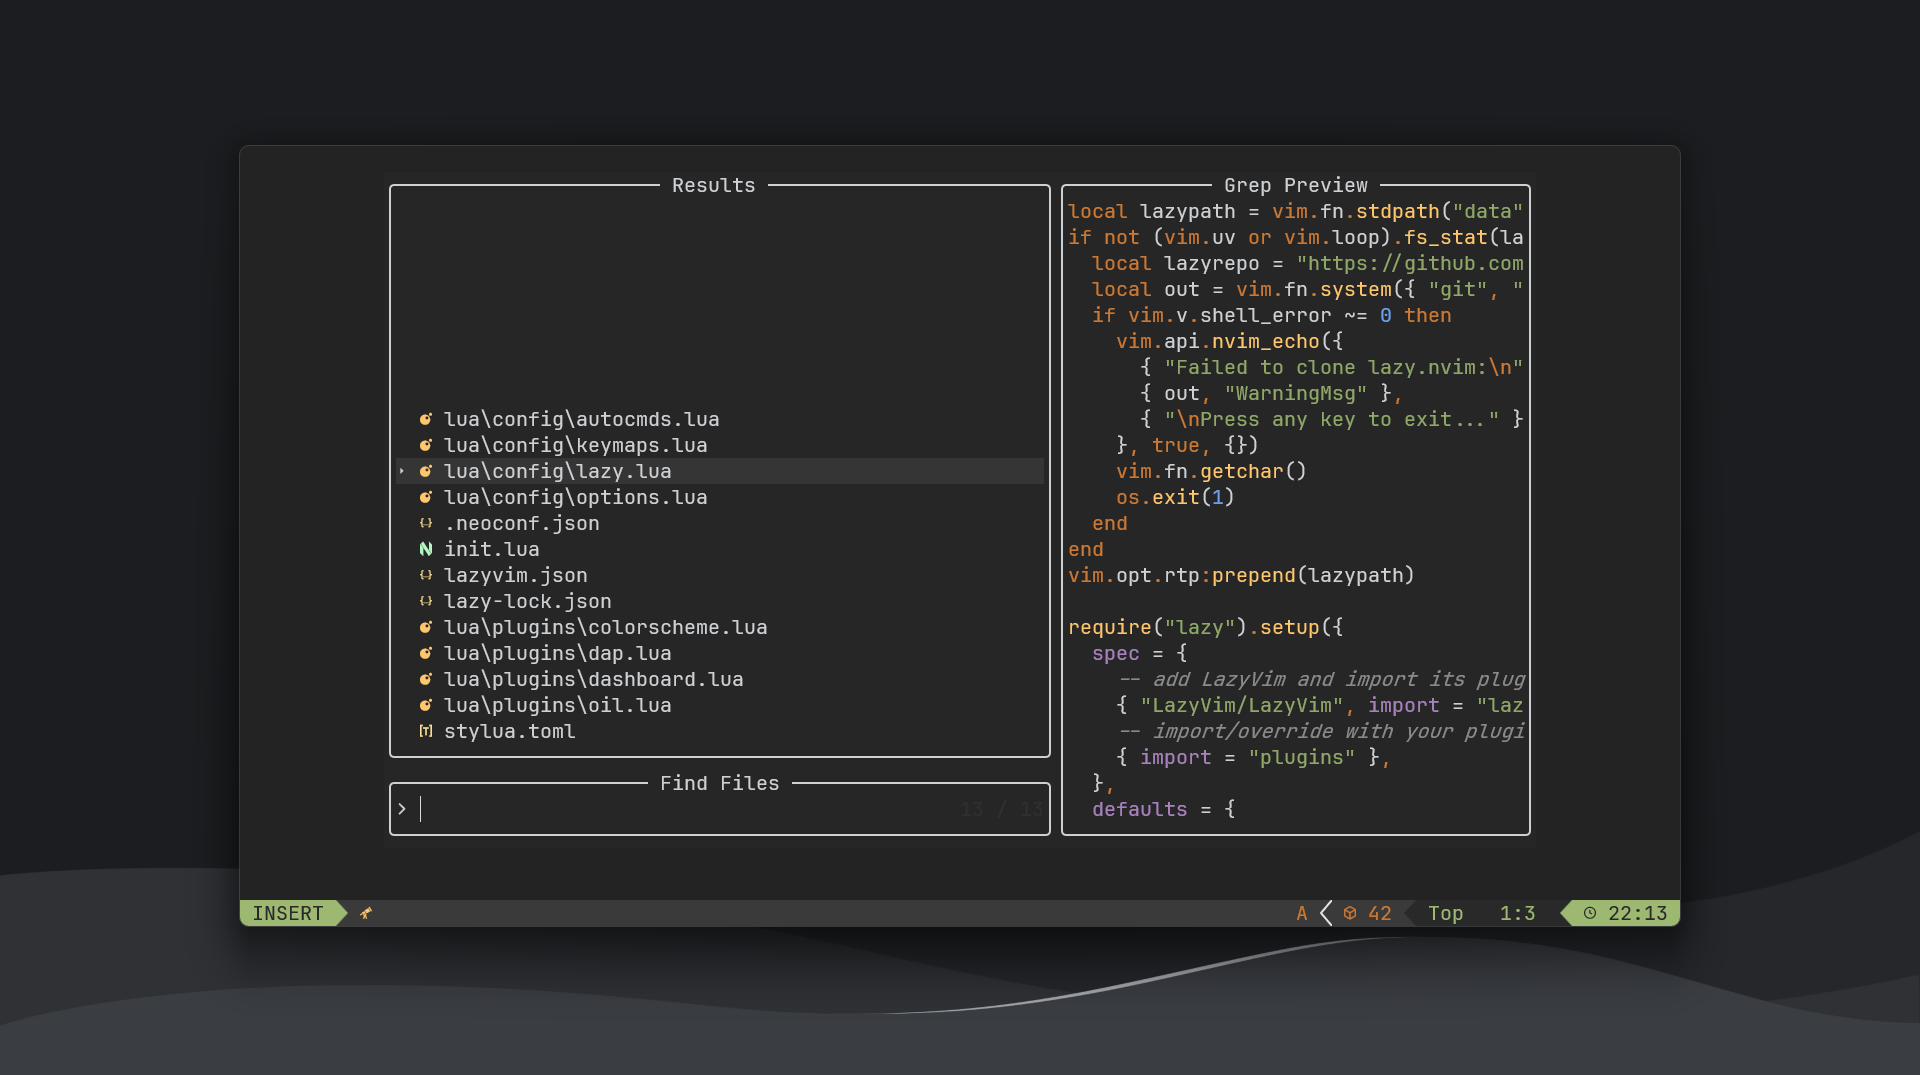
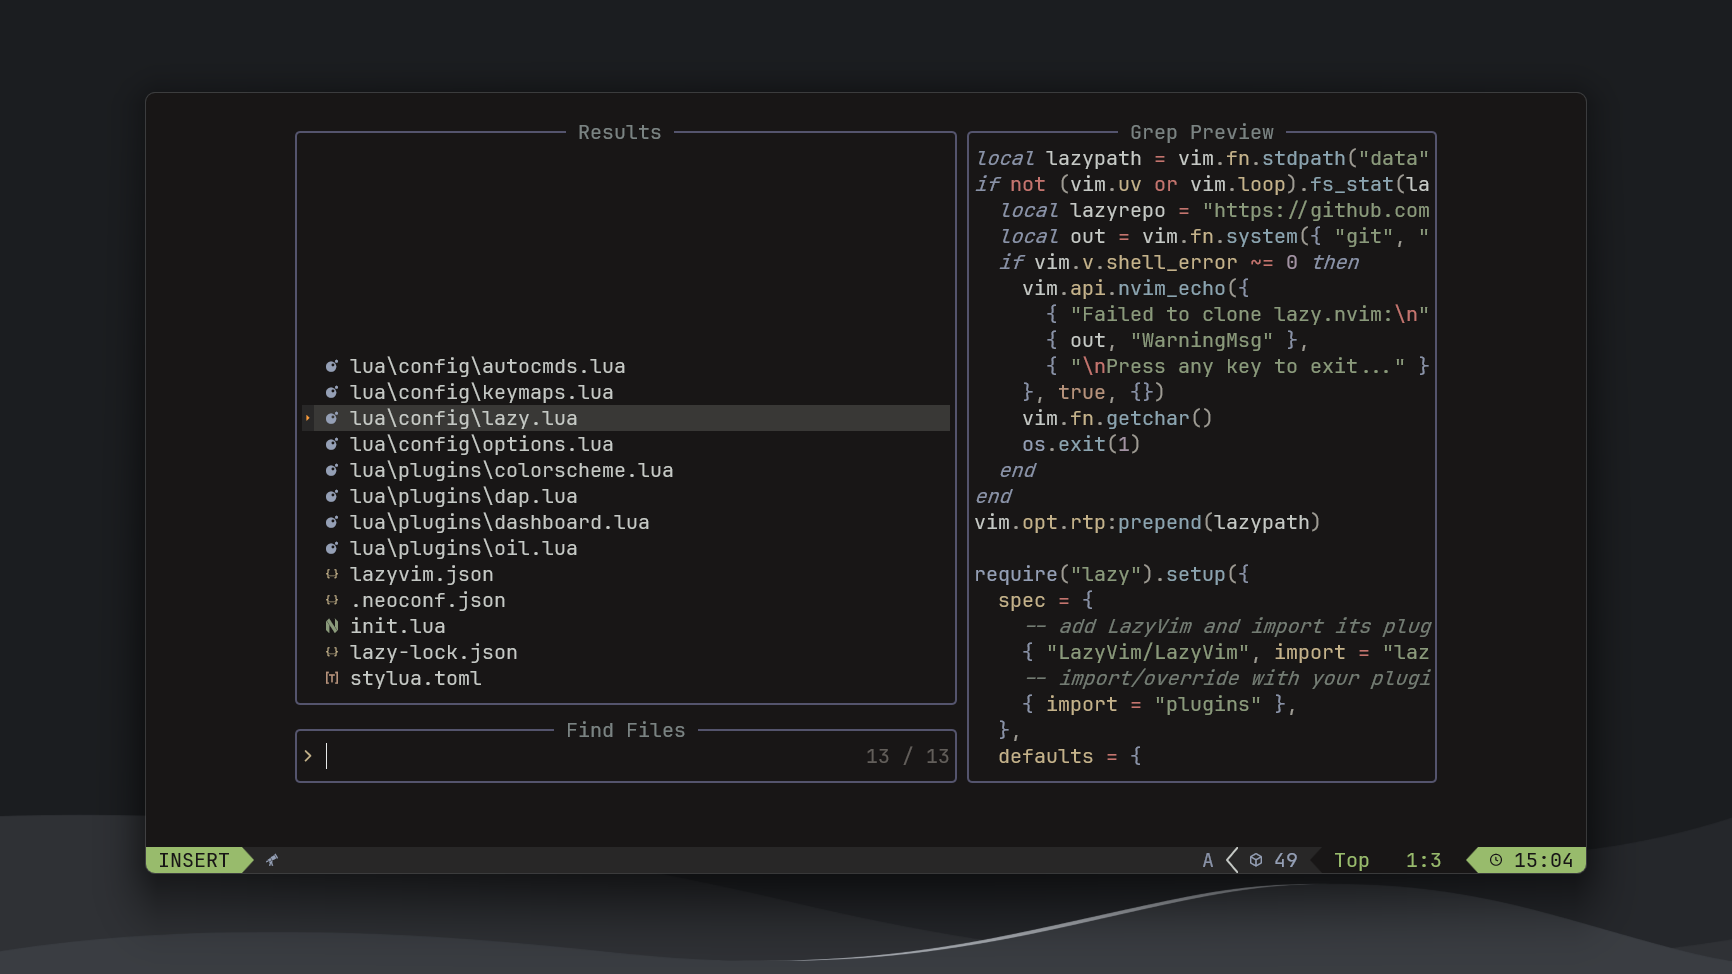
change removed color

Changed region(s): [[0.1871, 0.1232, 0.8418, 0.8008], [0.0624, 0.8008, 0.9353, 0.9856], [0.3118, 0.1232, 0.4053, 0.1848]]

diff --git a/README.md b/README.md
@@ -1,6 +1,6 @@
-![nvim home screenshot](./images/nvim-home-kanagawa.png)
+![nvim home screenshot](./images/nvim-home-dark.png)
 
-![nvim config screenshot](./images/nvim-config-kanagawa.png)
+![nvim config screenshot](./images/nvim-config-dark.png)
 
 ![powershell theme screenshot](./images/powershell-theme-dark.png)
 
